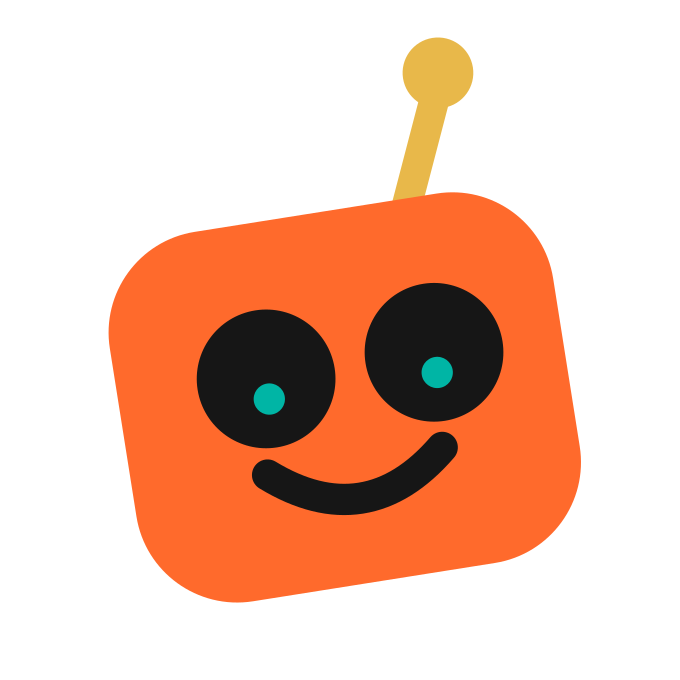
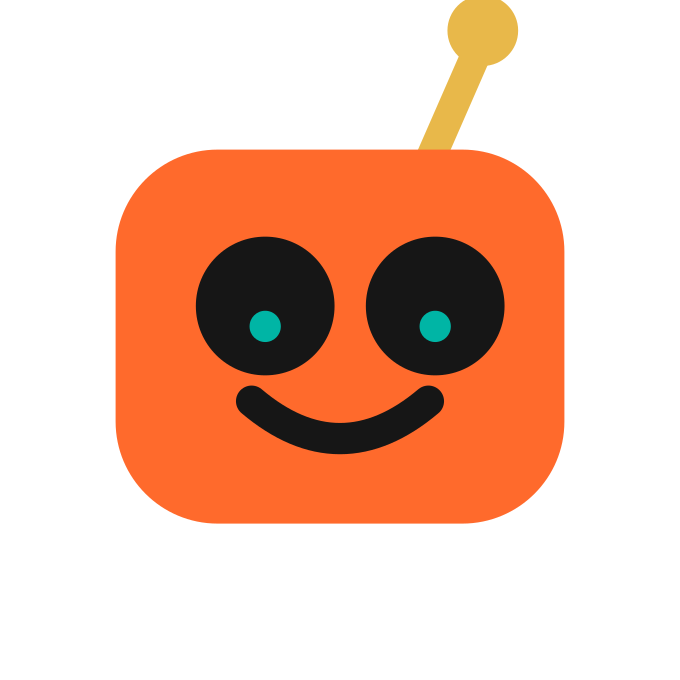
welcome v4 — robot angled, rotator center-aligned w/ Your, sign-in left, no stripe

Changed region(s): [[0.1544, 0.0, 0.8647, 0.8956], [0.1544, 0.5868, 0.1853, 0.6794]]

diff --git a/index.html b/index.html
@@ -15,12 +15,13 @@
   }
   /* robot CONTAINED upper-right, only a small bleed off the right edge (like the reference) */
   .robot {
-    position:absolute; width:280px; top:64px; right:-34px; z-index:1;
+    position:absolute; width:280px; top:60px; right:-34px; z-index:1;
     filter: drop-shadow(0 20px 30px rgba(0,0,0,0.55));
     pointer-events:none; user-select:none;
+    transform: rotate(-13deg);                 /* face at an angle (CCW, antenna up-right) */
     animation: float 5s ease-in-out infinite;
   }
-  @keyframes float { 0%,100%{transform:translateY(0) rotate(9deg)} 50%{transform:translateY(-7px) rotate(9deg)} }
+  @keyframes float { 0%,100%{transform:translateY(0) rotate(-13deg)} 50%{transform:translateY(-7px) rotate(-13deg)} }
   .ph { position:absolute; top:10px; left:10px; z-index:9; font-size:9px; letter-spacing:.03em;
         color:#6a6a6c; background:#000a; padding:2px 6px; border-radius:5px; }
   .hero { height:330px; flex:0 0 auto; }                 /* space for the robot */
@@ -32,9 +33,9 @@
   .odot { display:inline-block; width:11px; height:11px; border-radius:50%; background:#FF6A2C; margin-left:3px; vertical-align:-3px; }
   .sub {
     margin-top:20px; z-index:2; font-family:'Space Grotesk',sans-serif; font-weight:700;
-    font-size:27px; letter-spacing:-0.01em; color:#fff; display:flex; align-items:baseline; gap:10px;
+    font-size:27px; letter-spacing:-0.01em; color:#fff; display:flex; align-items:center; gap:10px;
   }
-  .reel { display:inline-block; height:1.2em; overflow:hidden; position:relative; top:0.16em; }
+  .reel { display:inline-block; height:1.2em; overflow:hidden; position:relative; }
   .reel ul { list-style:none; animation: roll 6s steps(1,end) infinite; }
   .reel li { height:1.2em; line-height:1.2em; font-weight:700;
              background:linear-gradient(90deg,#00B5A5 0%,#E8B84A 100%);
@@ -45,15 +46,13 @@
   }
   .grow { flex:1 1 auto; min-height:24px; }
   .footer { z-index:3; padding-bottom:34px; }
-  .signin { text-align:center; margin-bottom:22px; font-family:'Space Grotesk',sans-serif;
+  .signin { text-align:left; margin-bottom:22px; font-family:'Space Grotesk',sans-serif;
             font-size:18px; font-weight:500; color:rgba(255,255,255,0.6); }
   .signin a { color:#FF6A2C; font-weight:700; text-decoration:none; }
   .cta { width:100%; height:66px; border:none; border-radius:999px; background:#00B5A5; color:#161616;
          font-family:'Space Grotesk',sans-serif; font-size:21px; font-weight:700; letter-spacing:-0.02em;
          display:flex; align-items:center; justify-content:center; gap:14px; }
-  .stripe { position:absolute; bottom:0; left:0; right:0; height:4px;
-            background:linear-gradient(90deg,#FF6A2C 0%,#E8B84A 50%,#00B5A5 100%); }
-  @media (prefers-reduced-motion: reduce){ .robot{animation:none;transform:rotate(9deg)} .reel ul{animation:none} }
+  @media (prefers-reduced-motion: reduce){ .robot{animation:none;transform:rotate(-13deg)} .reel ul{animation:none} }
 </style>
 </head>
 <body>
@@ -75,7 +74,6 @@
       <div class="signin">Already have an account? <a href="#">Sign in</a></div>
       <button class="cta">Get started&nbsp;&nbsp;&#8594;</button>
     </div>
-    <div class="stripe"></div>
   </div>
 </body>
 </html>

diff --git a/welcome.html b/welcome.html
@@ -15,12 +15,13 @@
   }
   /* robot CONTAINED upper-right, only a small bleed off the right edge (like the reference) */
   .robot {
-    position:absolute; width:280px; top:64px; right:-34px; z-index:1;
+    position:absolute; width:280px; top:60px; right:-34px; z-index:1;
     filter: drop-shadow(0 20px 30px rgba(0,0,0,0.55));
     pointer-events:none; user-select:none;
+    transform: rotate(-13deg);                 /* face at an angle (CCW, antenna up-right) */
     animation: float 5s ease-in-out infinite;
   }
-  @keyframes float { 0%,100%{transform:translateY(0) rotate(9deg)} 50%{transform:translateY(-7px) rotate(9deg)} }
+  @keyframes float { 0%,100%{transform:translateY(0) rotate(-13deg)} 50%{transform:translateY(-7px) rotate(-13deg)} }
   .ph { position:absolute; top:10px; left:10px; z-index:9; font-size:9px; letter-spacing:.03em;
         color:#6a6a6c; background:#000a; padding:2px 6px; border-radius:5px; }
   .hero { height:330px; flex:0 0 auto; }                 /* space for the robot */
@@ -32,9 +33,9 @@
   .odot { display:inline-block; width:11px; height:11px; border-radius:50%; background:#FF6A2C; margin-left:3px; vertical-align:-3px; }
   .sub {
     margin-top:20px; z-index:2; font-family:'Space Grotesk',sans-serif; font-weight:700;
-    font-size:27px; letter-spacing:-0.01em; color:#fff; display:flex; align-items:baseline; gap:10px;
+    font-size:27px; letter-spacing:-0.01em; color:#fff; display:flex; align-items:center; gap:10px;
   }
-  .reel { display:inline-block; height:1.2em; overflow:hidden; position:relative; top:0.16em; }
+  .reel { display:inline-block; height:1.2em; overflow:hidden; position:relative; }
   .reel ul { list-style:none; animation: roll 6s steps(1,end) infinite; }
   .reel li { height:1.2em; line-height:1.2em; font-weight:700;
              background:linear-gradient(90deg,#00B5A5 0%,#E8B84A 100%);
@@ -45,15 +46,13 @@
   }
   .grow { flex:1 1 auto; min-height:24px; }
   .footer { z-index:3; padding-bottom:34px; }
-  .signin { text-align:center; margin-bottom:22px; font-family:'Space Grotesk',sans-serif;
+  .signin { text-align:left; margin-bottom:22px; font-family:'Space Grotesk',sans-serif;
             font-size:18px; font-weight:500; color:rgba(255,255,255,0.6); }
   .signin a { color:#FF6A2C; font-weight:700; text-decoration:none; }
   .cta { width:100%; height:66px; border:none; border-radius:999px; background:#00B5A5; color:#161616;
          font-family:'Space Grotesk',sans-serif; font-size:21px; font-weight:700; letter-spacing:-0.02em;
          display:flex; align-items:center; justify-content:center; gap:14px; }
-  .stripe { position:absolute; bottom:0; left:0; right:0; height:4px;
-            background:linear-gradient(90deg,#FF6A2C 0%,#E8B84A 50%,#00B5A5 100%); }
-  @media (prefers-reduced-motion: reduce){ .robot{animation:none;transform:rotate(9deg)} .reel ul{animation:none} }
+  @media (prefers-reduced-motion: reduce){ .robot{animation:none;transform:rotate(-13deg)} .reel ul{animation:none} }
 </style>
 </head>
 <body>
@@ -75,7 +74,6 @@
       <div class="signin">Already have an account? <a href="#">Sign in</a></div>
       <button class="cta">Get started&nbsp;&nbsp;&#8594;</button>
     </div>
-    <div class="stripe"></div>
   </div>
 </body>
 </html>
